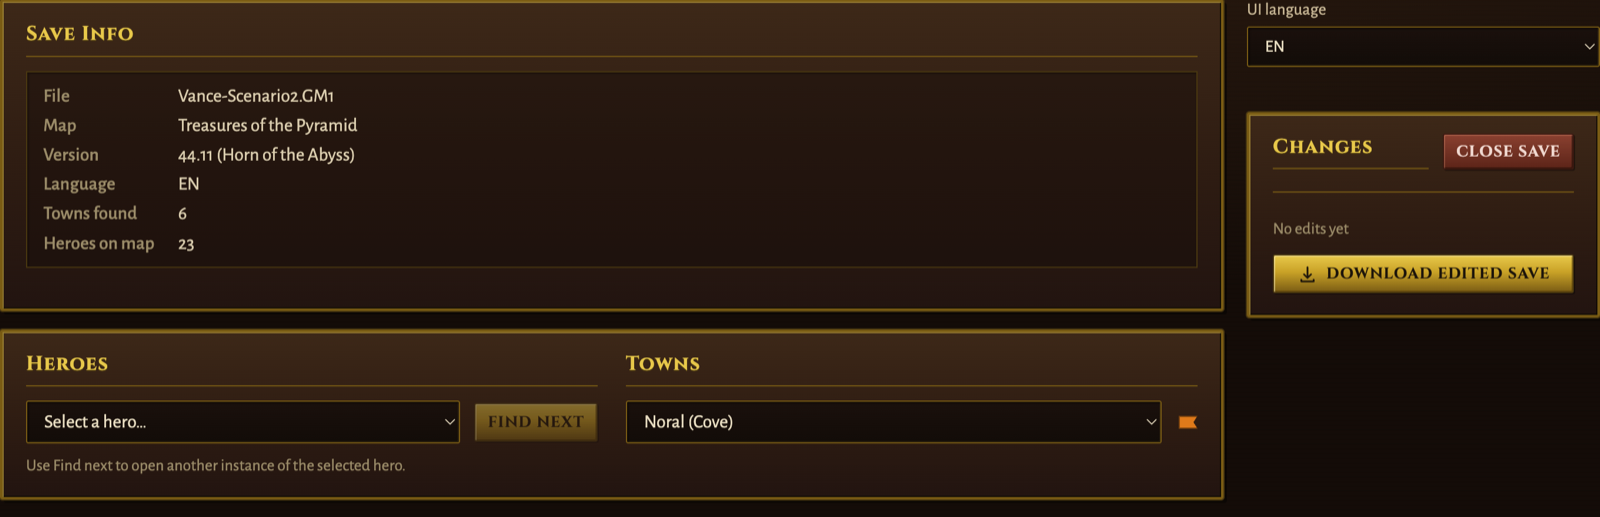
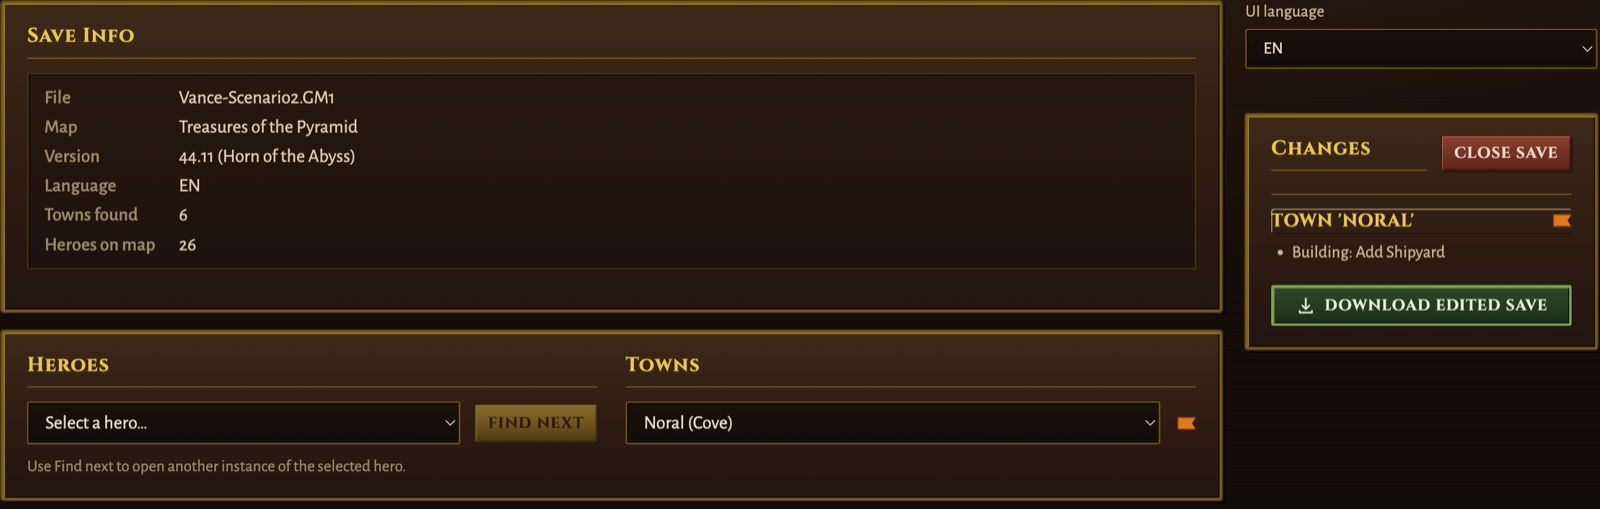
Stack town dwelling choices and refresh the editor screenshots.

diff --git a/src/App.css b/src/App.css
@@ -870,6 +870,23 @@ button.button-danger:hover:not(:disabled) {
   gap: 0.25rem 0.85rem;
 }
 
+.building-chains-dwellings .building-chain-options {
+  display: block;
+}
+
+.building-chains-dwellings .building-chain-options > .check {
+  display: block;
+  margin-bottom: 0.28rem;
+}
+
+.building-chains-dwellings .building-chain-options > .check:last-child {
+  margin-bottom: 0;
+}
+
+.building-chains-dwellings .building-chain-options > .check input {
+  margin-right: 0.4rem;
+}
+
 .building-subhead {
   margin: 0.75rem 0 0.4rem;
   font-size: 0.95rem;
